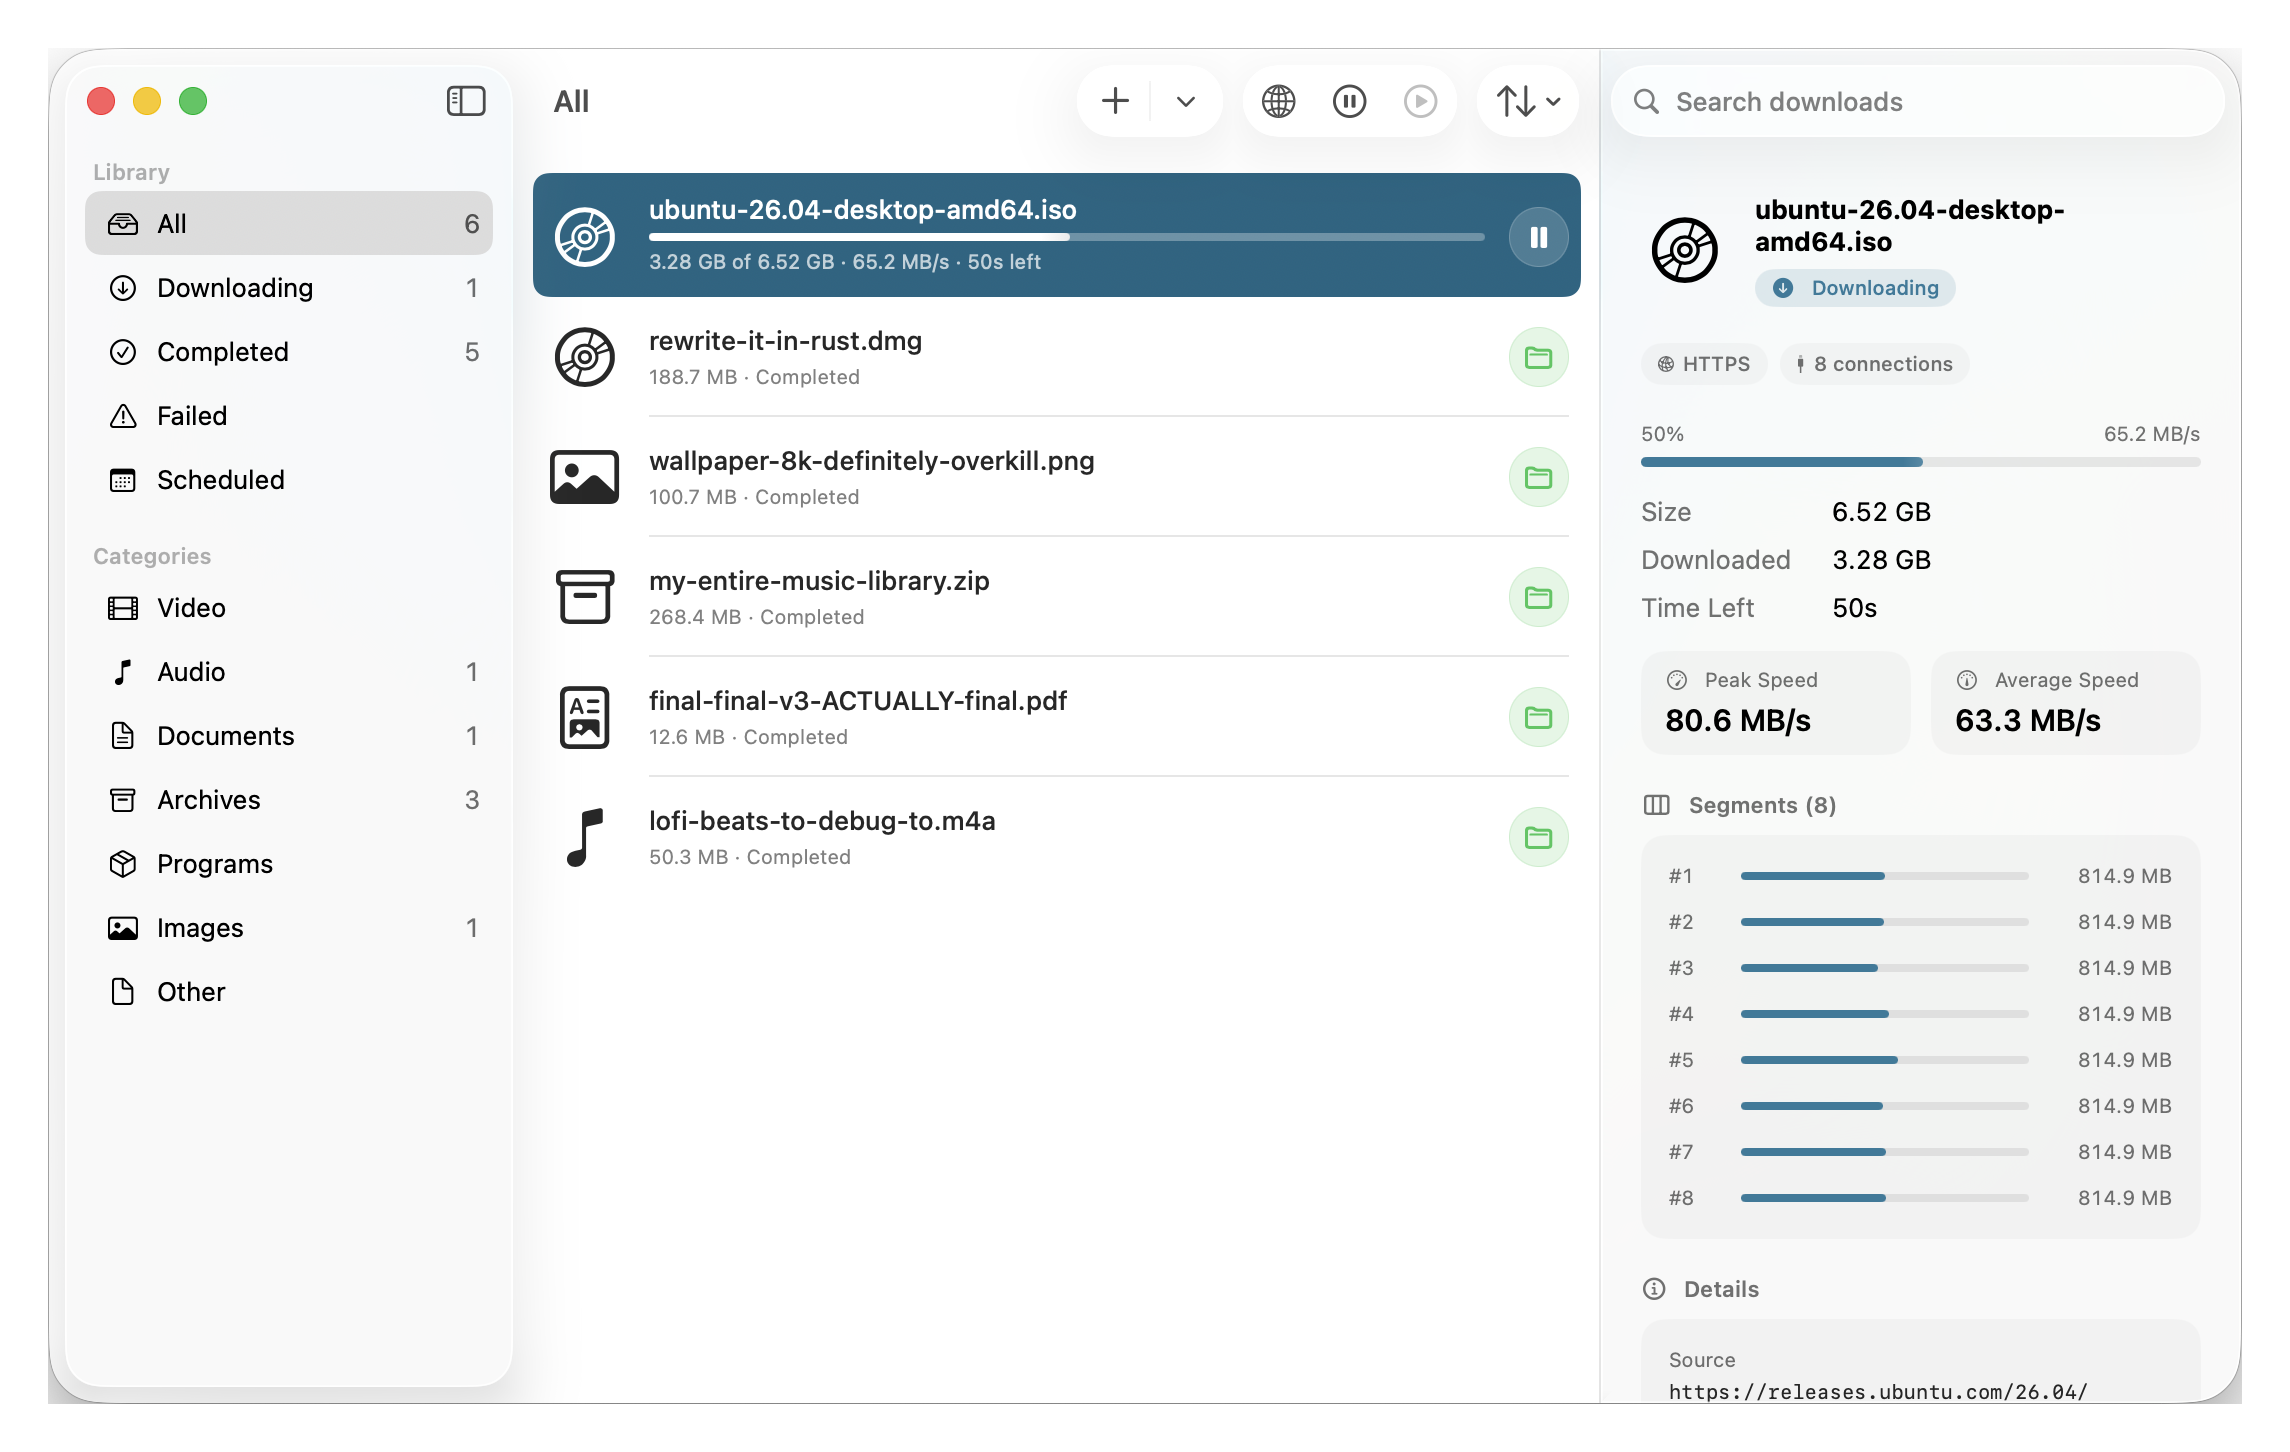
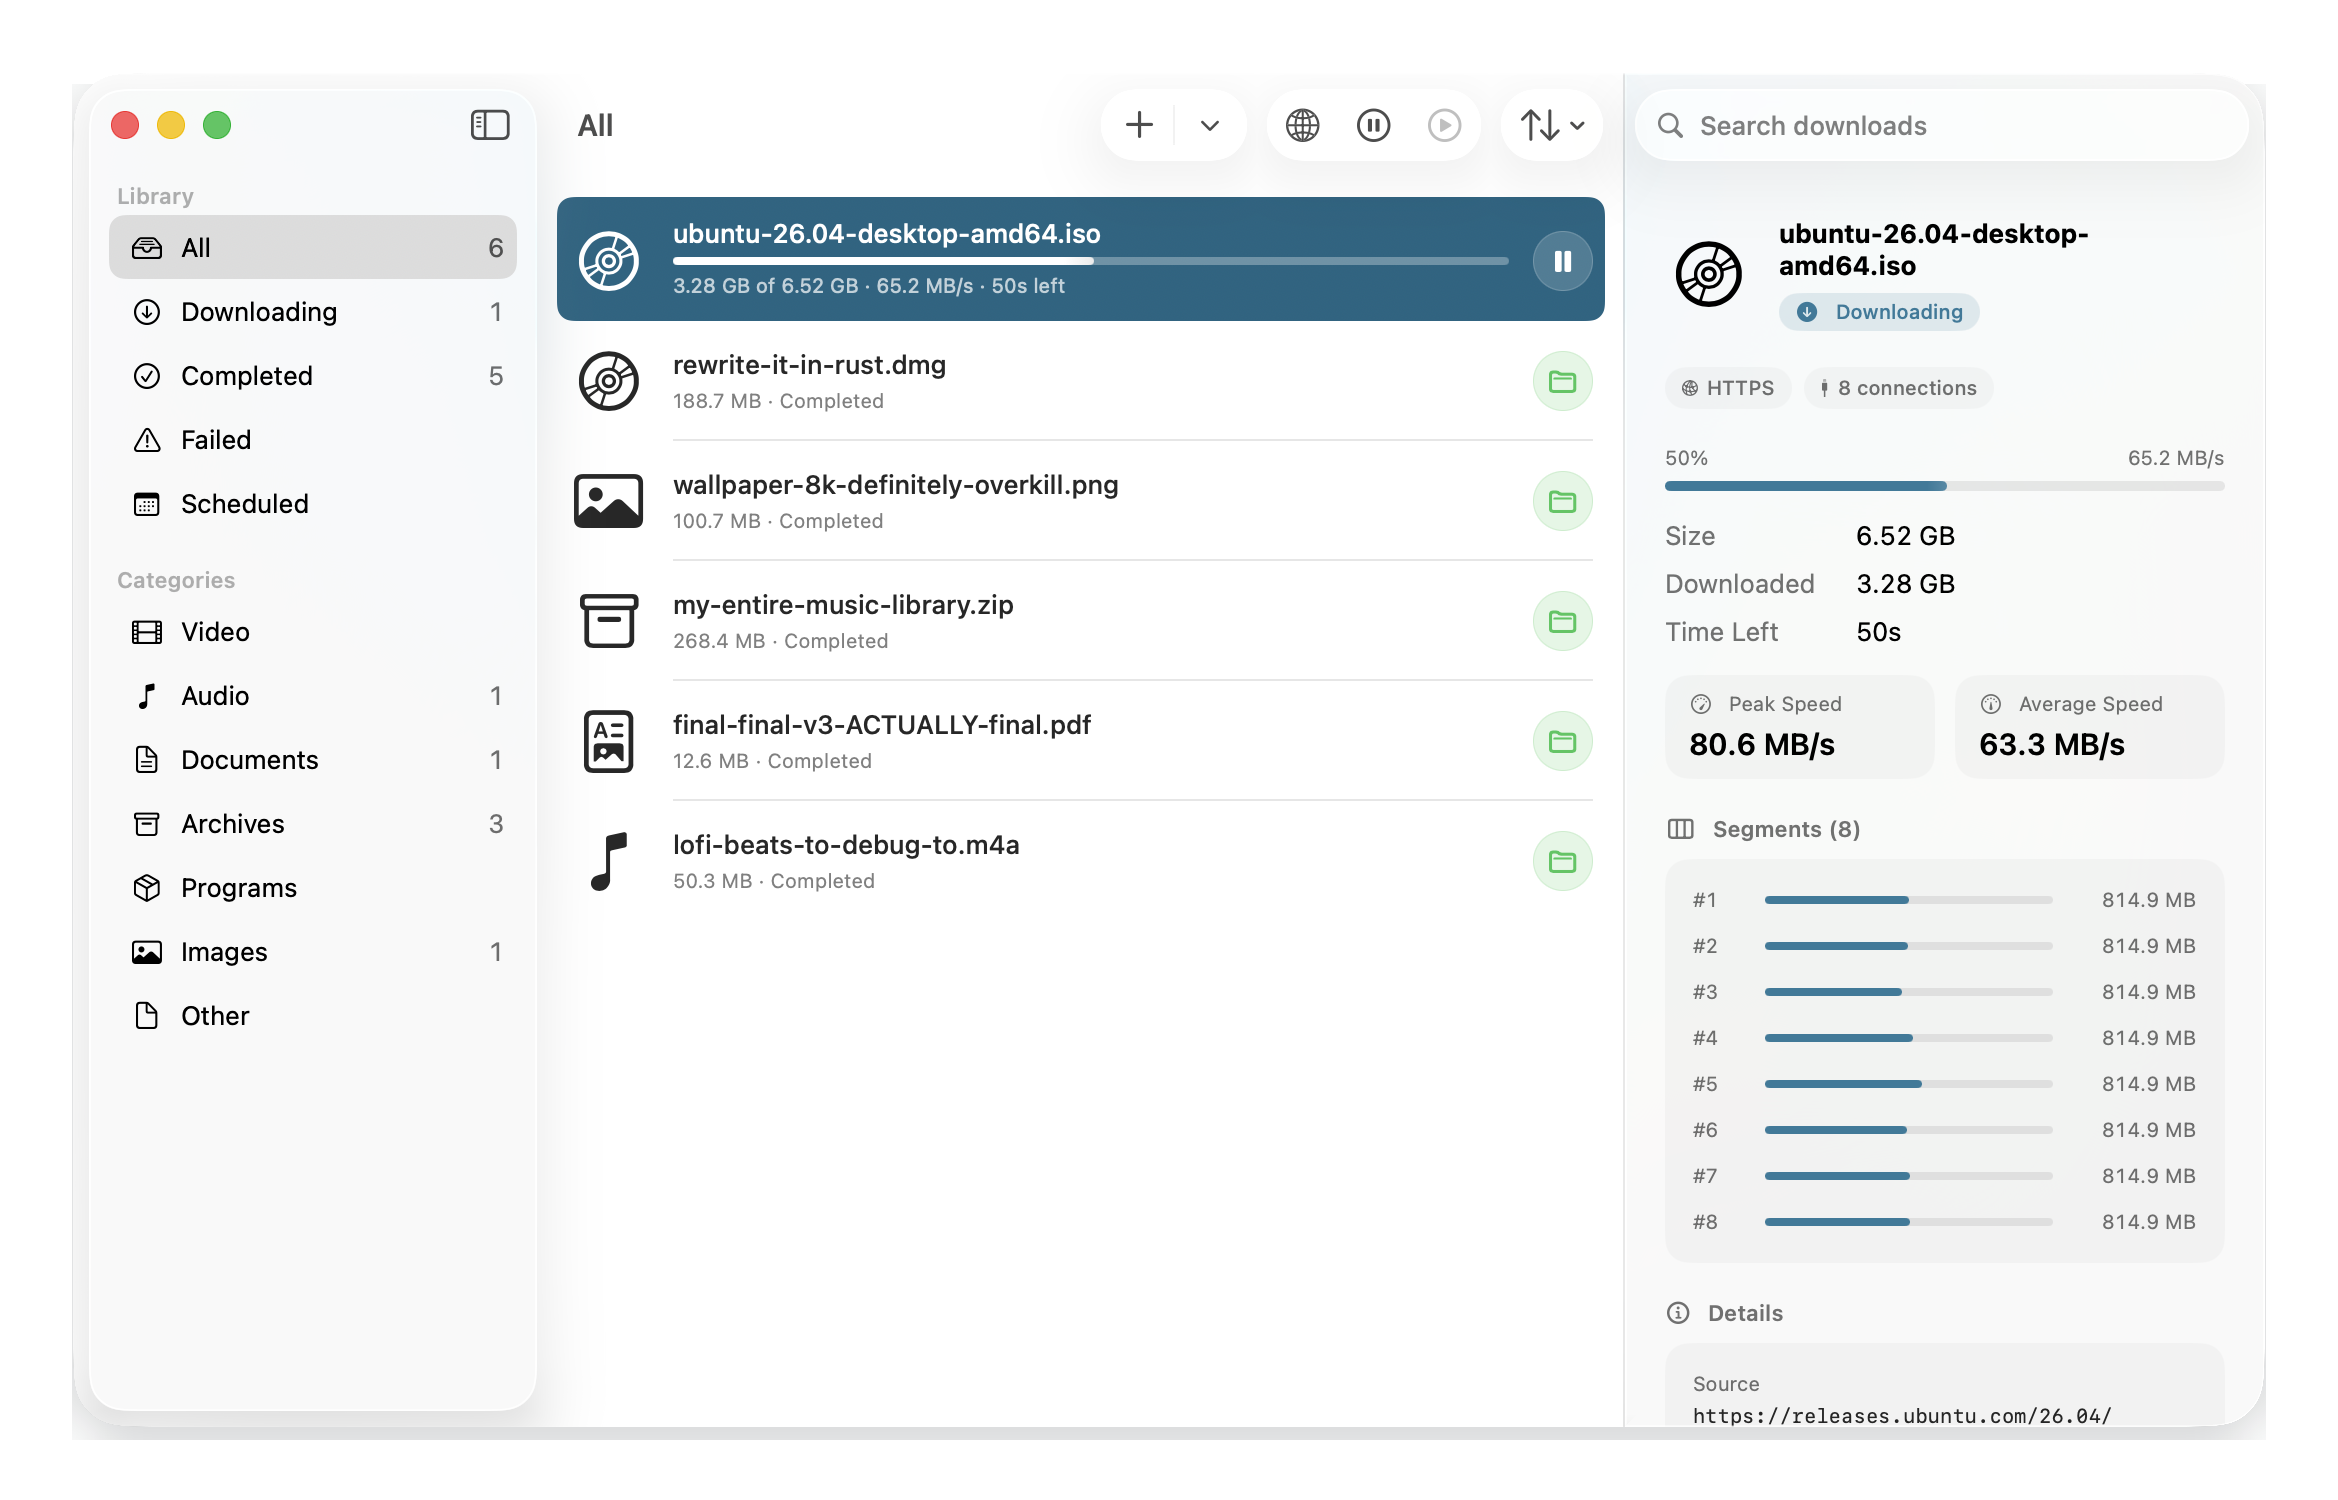
Rebuild hero shadows from clean alpha

diff --git a/assets/social/og.html b/assets/social/og.html
@@ -355,24 +355,13 @@
           var(--surface);
       }
 
-      .app-window {
+      .app-stage img {
         position: absolute;
         top: 20px;
         left: 24px;
         width: 850px;
-        height: 526px;
-        overflow: hidden;
-        border-radius: 16px;
-        background: var(--surface);
-        box-shadow: 0 18px 26px rgba(14, 26, 31, 0.16);
-      }
-
-      .app-window img {
-        position: absolute;
-        top: -1px;
-        left: -1px;
-        width: 852px;
         max-width: none;
+        filter: drop-shadow(0 6px 5px rgba(14, 26, 31, 0.18));
       }
 
       .app-stage::after {
@@ -442,9 +431,7 @@
           <div class="merge"><span>Planned ranges</span><b>08 → 01</b></div>
         </div>
         <div class="app-stage">
-          <div class="app-window">
-            <img src="../screenshots/hero.png" alt="" />
-          </div>
+          <img src="../screenshots/hero.png" alt="" />
         </div>
       </figure>
     </main>

diff --git a/assets/README.md b/assets/README.md
@@ -16,9 +16,9 @@ assets/
 │   ├── og.html                # source for the card — the thing you edit
 │   └── og.png                 # 1200×630 Open Graph / Twitter share card (rendered)
 └── screenshots/
-    ├── hero.webp              # tightly cropped app hero for the website (primary)
+    ├── hero.webp              # clean native window alpha for the website (primary)
     ├── hero.png               # PNG fallback for the same
-    ├── hero-readme.webp       # README rendition with transparent edge safety
+    ├── hero-readme.webp       # README rendition with a complete padded shadow
     └── hero-readme.png        # PNG fallback for the README rendition
 ```
 
@@ -48,9 +48,11 @@ The generated copies (e.g. `apps/site/public/logo.svg`, `…/hero.webp`) are **g
 this folder is the only committed home for them. That's the whole point: no duplicated
 binaries in version control.
 
-The root README references the `hero-readme` pair directly. Those renditions add a small
-transparent inset around the tightly cropped app capture so GitHub's image renderer cannot
-clip the window's antialiased rounded corners.
+The root README references the `hero-readme` pair directly. The website pair contains the
+clean native window alpha with no baked shadow; CSS can render that shadow without guessing
+the corner geometry. The README pair reconstructs the shadow on a 72px transparent inset,
+because GitHub cannot supply the same styling and would otherwise clip a tightly trimmed
+shadow at the canvas edge.
 
 ## Updating an asset
 
